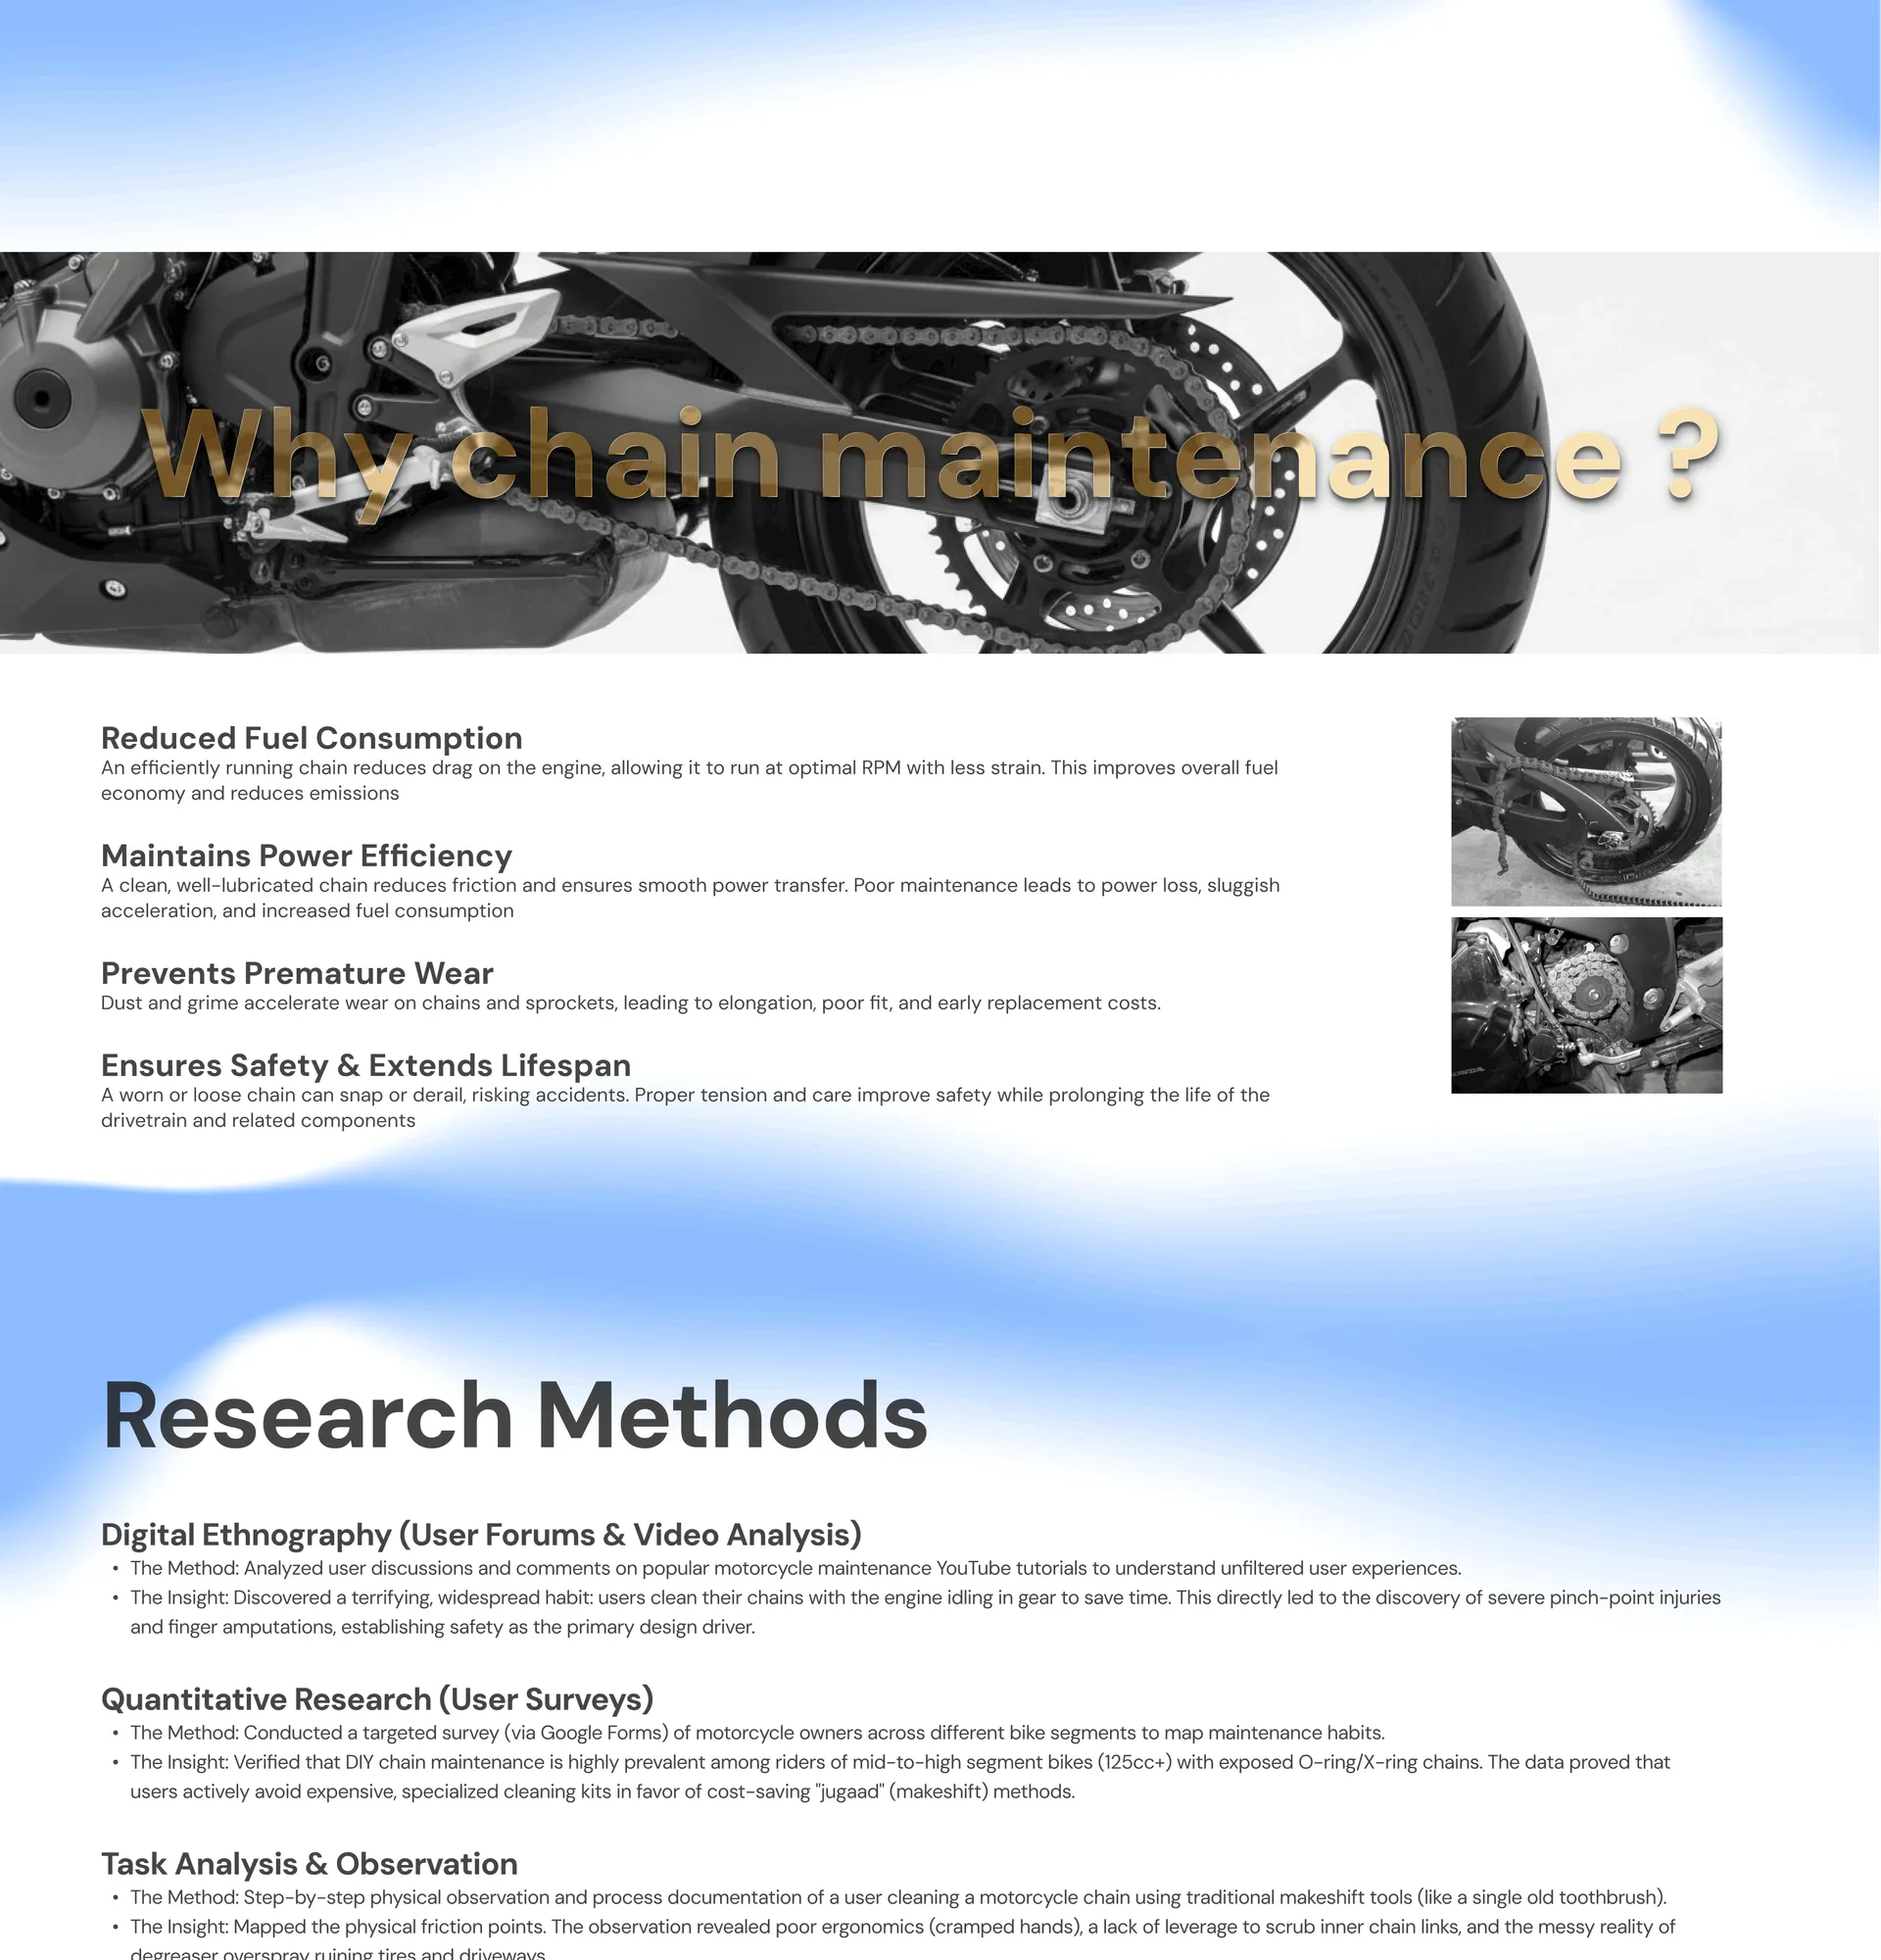
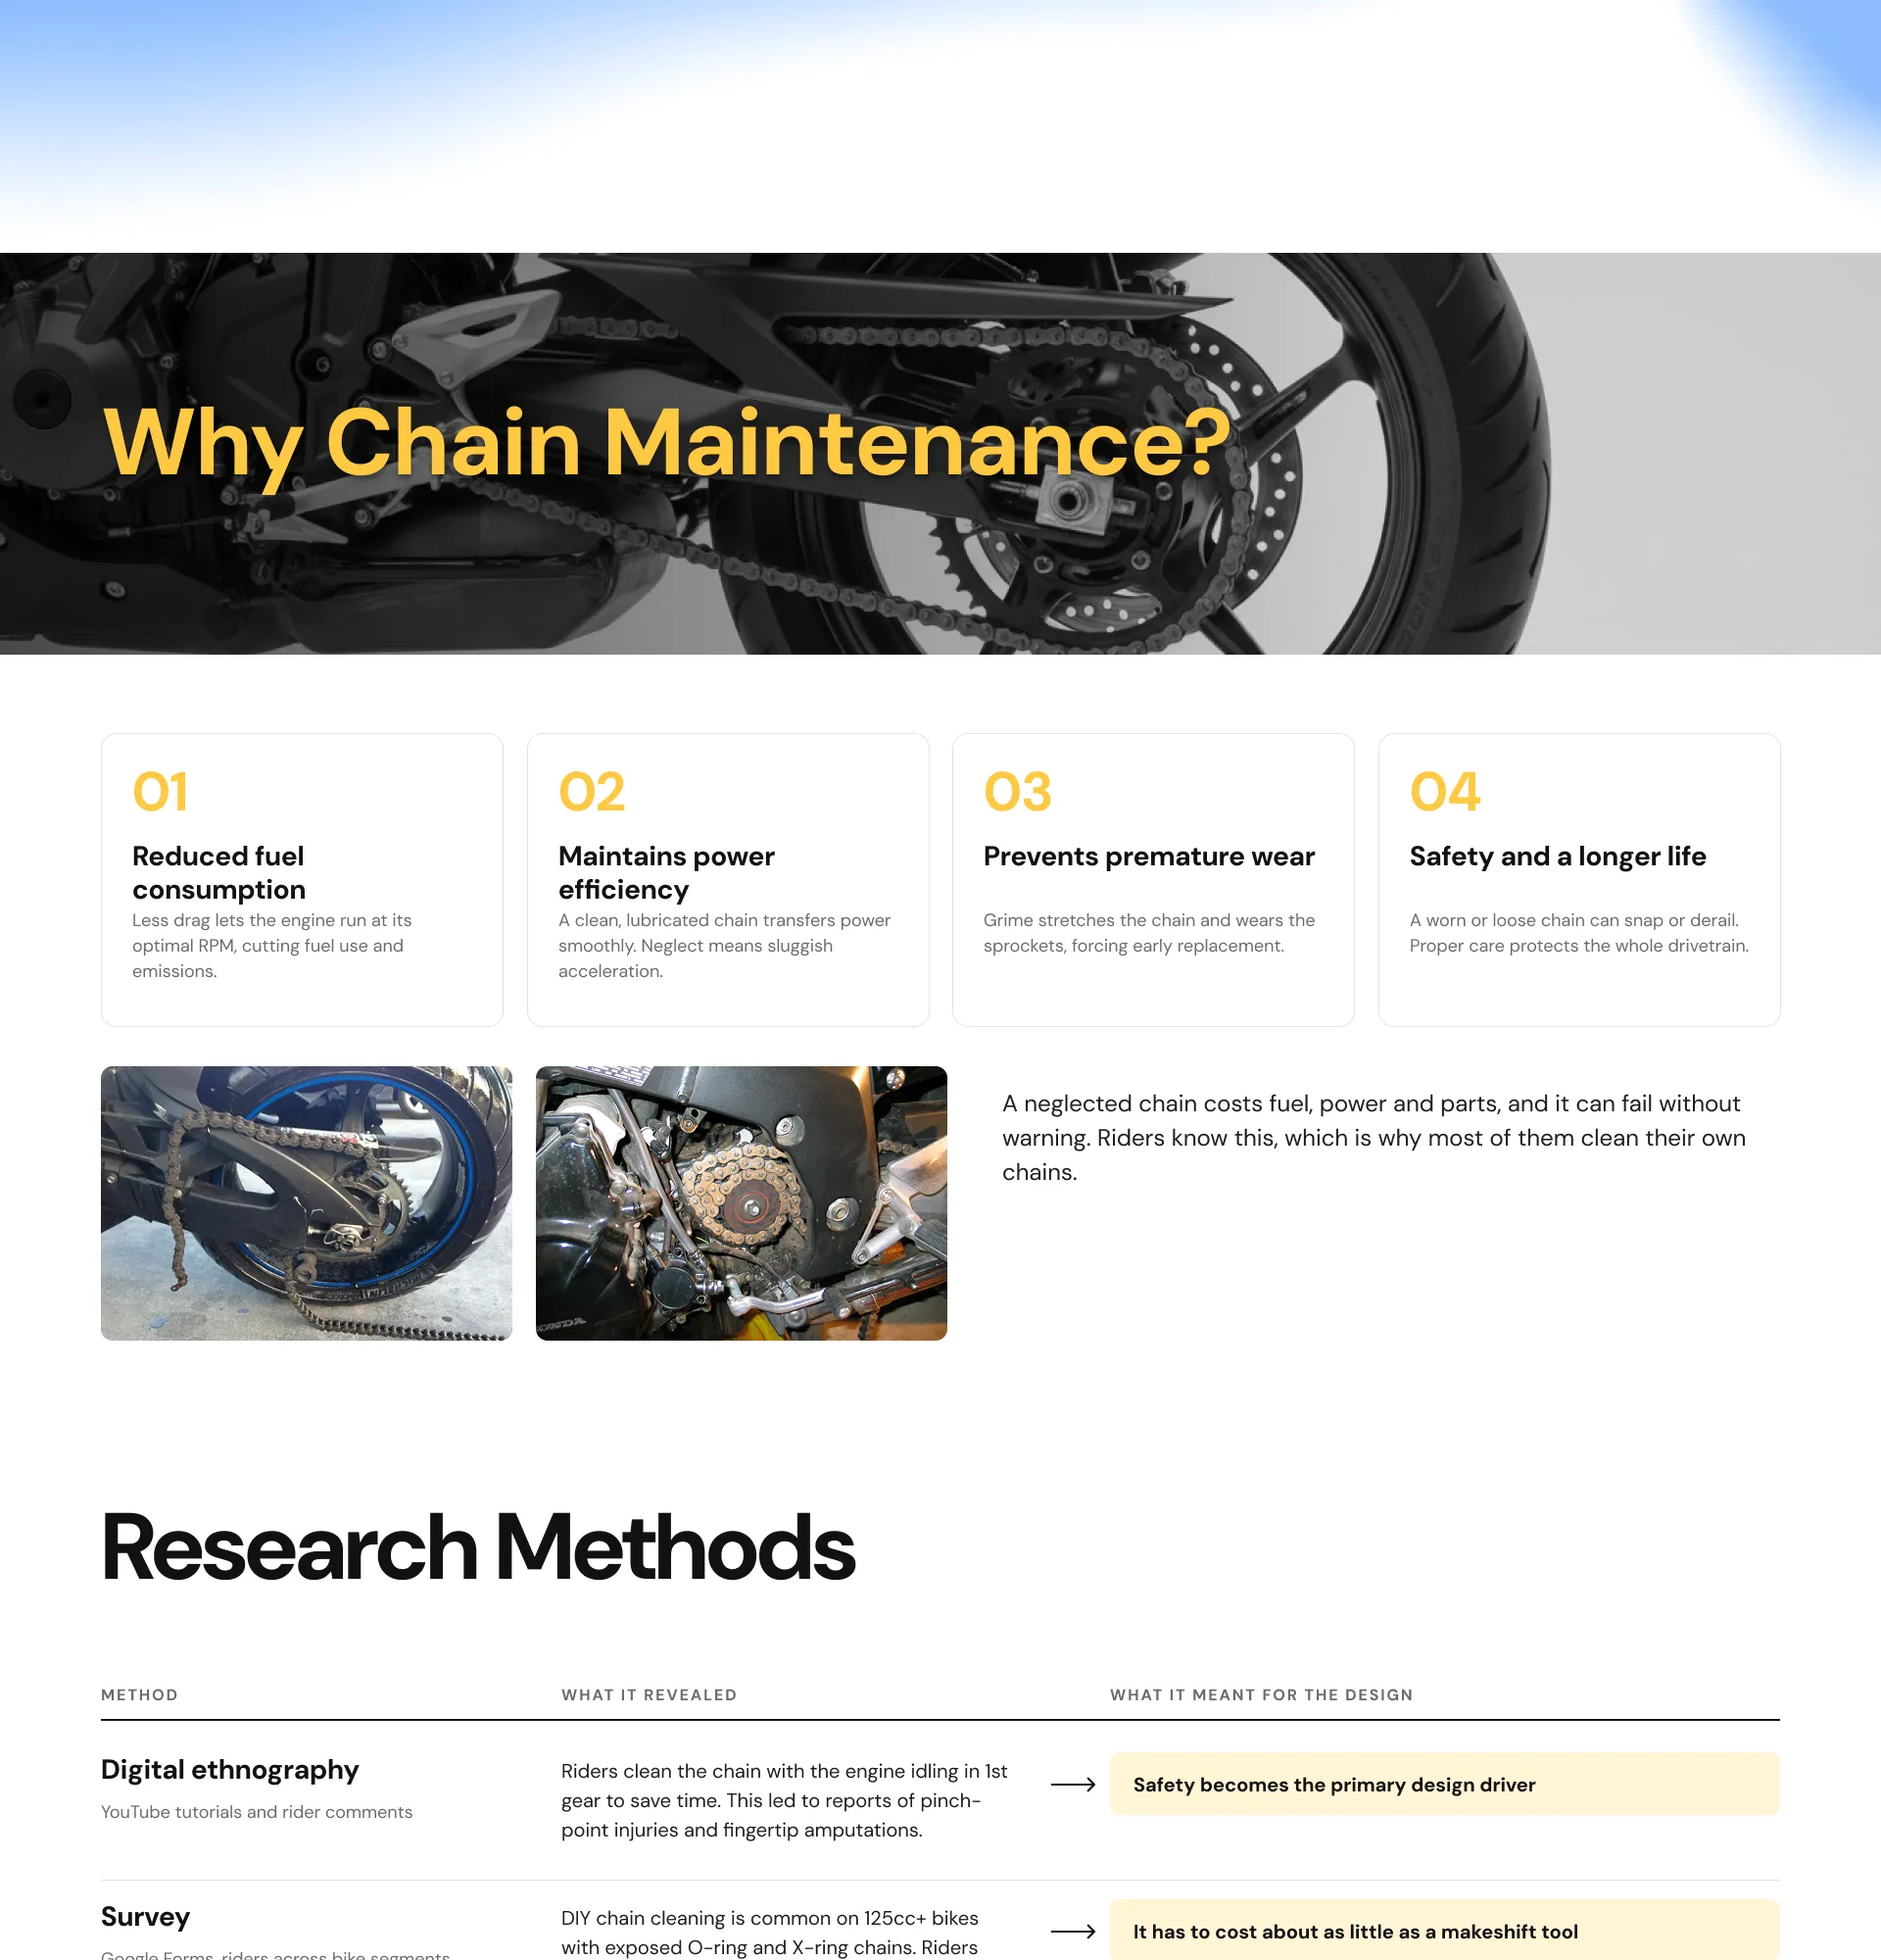
ReBrush: new portfolio board and details taken from it; project pages show the course
Claude-Session: https://claude.ai/code/session_0168aHRphf9dzANVDPXHjhgS

diff --git a/js/projects.js b/js/projects.js
@@ -43,6 +43,7 @@ window.PROJECTS = [
     title: "Anchor",
     subtitle: "Voice wearable and tabletop light for one-off tasks in later life",
     year: "2026",
+    course: "Interactive Product Design",
     category: "Interaction Design",
     tags: ["Elderly care", "Assistive technology", "Physical computing"],
     guide: "Lakshya Shrivastava",
@@ -55,15 +56,16 @@ window.PROJECTS = [
   {
     slug: "rebrush",
     title: "ReBrush",
-    subtitle: "Motorcycle chain cleaner",
-    year: "",
+    subtitle: "Motorcycle chain cleaner made from old toothbrushes",
+    year: "2025",
+    course: "Simple Product Design",
     category: "Product Design",
-    tags: ["Product Design", "Research", "Engineering"],
+    tags: ["Safety", "Sustainability", "Prototyping"],
     duration: "6 weeks",
     guide: "Archana",
     tools: [],
     summary: [
-      "Riders often clean their chain with the engine running, a hand inches from the sprocket, holding an old toothbrush. ReBrush clamps two discarded toothbrushes into one tool that keeps hands away. It took more than twenty prototypes.",
+      "Riders clean their own chains with old toothbrushes, often with the engine idling in gear and a hand right next to the sprocket. ReBrush clamps two discarded toothbrushes into slide-in slots with a toothed locking plate, so it cleans both sides of the chain at once and keeps the hand well away. It took five rounds of hand-built prototypes, each tested on the bike.",
     ],
     links: {},
   },

diff --git a/js/site.js b/js/site.js
@@ -95,9 +95,10 @@
     const group = p.other ? others : main;
     const next = group[(group.indexOf(p) + 1) % group.length];
     const links = Object.entries(p.links || {}).filter(([, url]) => url);
-    // only what helps: who guided it, when, and where to see more
+    // only what helps: who guided it, for which course, when, and where to see more
     const facts = [
       p.guide && esc(`Guided by ${p.guide}`),
+      p.course && esc(p.course),
       p.year && esc(p.year),
       ...links.map(([k, url]) => `<a href="${esc(url)}"${external(url)}>${esc(linkName(k))}</a>`),
     ].filter(Boolean);

diff --git a/js/assets.generated.js b/js/assets.generated.js
@@ -46,7 +46,17 @@ window.ASSETS = {
       {
         "src": "assets/web/rebrush/slide-09.webp",
         "w": 1920,
-        "h": 954
+        "h": 2000
+      },
+      {
+        "src": "assets/web/rebrush/slide-10.webp",
+        "w": 1920,
+        "h": 2000
+      },
+      {
+        "src": "assets/web/rebrush/slide-11.webp",
+        "w": 1920,
+        "h": 1524
       }
     ],
     "gallery": []
